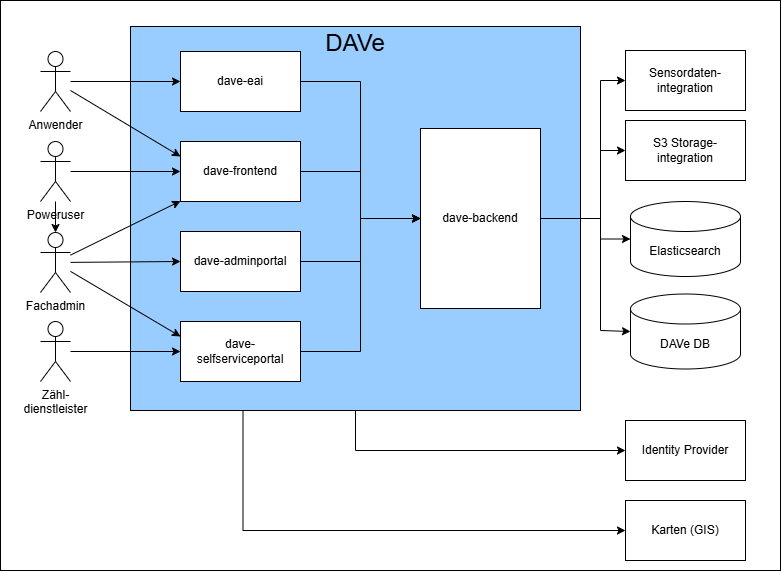
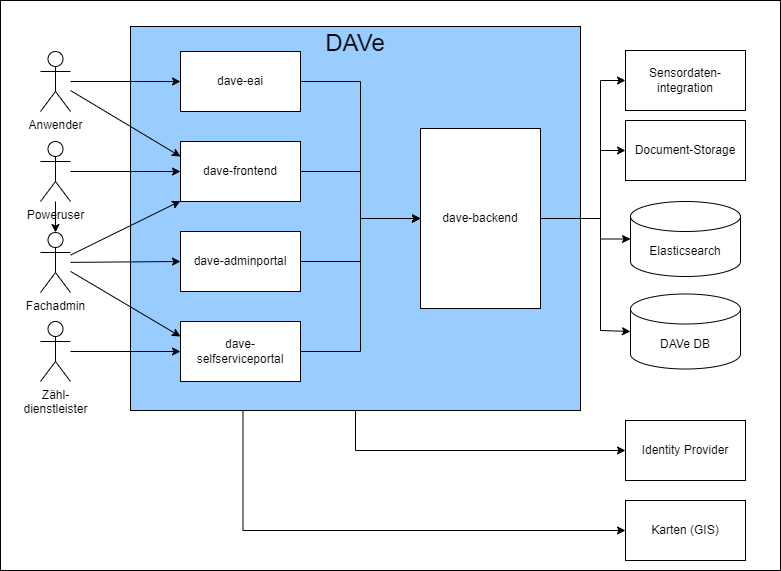
document-storage docu added

diff --git a/docs/src/de/SysSpec-arc42.md b/docs/src/de/SysSpec-arc42.md
@@ -19,7 +19,7 @@
          - [Ausgabe aller Zählstellen mit Koordinaten als CSV-Datei](#ausgabe-aller-zählstellen-mit-koordinaten-als-csv-datei)
          - [Ausgabe der Spitzenstunde einer bestimmten Zählung als CSV-Datei](#ausgabe-der-spitzenstunde-einer-bestimmten-zählung-als-csv-datei)
          - [Daten aller Zählstellen und Zählungen des angegebenen Monats werden im JSON-Format zurückgegeben](#daten-aller-zählstellen-und-zählungen-des-angegebenen-monats-werden-im-json-format-zurückgegeben)
-      - [S3-Storageintegration](#s3-storageintegration)
+      - [Document-Storage](#document-storage)
       - [Sensordatenintegration](#sensordatenintegration)
       - [Identity Provider](#identity-provider)
 - [Laufzeitsicht](#laufzeitsicht)
@@ -148,13 +148,14 @@ Die Anwendung ist auf Basis der LHM-Referenzarchitektur für Webanwendungen erst
 | Vue          | 3       |
 
 ### Anwendung DAVe
-| Komponente        | Repo                             | Beschreibung                                                                                                                                                                                                                                         |
-|:------------------|:---------------------------------|:-----------------------------------------------------------------------------------------------------------------------------------------------------------------------------------------------------------------------------------------------------|
-| Datenportal       | [dave-frontend](https://github.com/it-at-m/dave-frontend)             | Das Datenportal bietet einen lesenden Zugriff auf die Zählungen und ermöglicht mit Hilfe verschiedener Diagramme eine umfangreich Datenanalyse.                                                                                                      |
-| Adminportal       | [dave-adminportal](https://github.com/it-at-m/dave-admin-portal)          | Das Adminportal ist den Administratoren der Anwendung vorbehalten. Hier ist der komplette Workflow um eine Zählstelle, oder eine Zählung anzulegen abgebildet. Auch die Kommunikation mit dem Zähldienstleister wird über dieses Portal abgewickelt. |
-| Selfserviceportal | [dave-selfserviceportal](https://github.com/it-at-m/dave-selfservice-portal)    | Das Selfservice-Portal dient zur Kommunikation zwischen LHM und Zähldienstleister. Über das Portal hat der Dienstleister die Möglichkeit, seine Zählungsaufträge online aufzurufen und diesen Aufträgen Zähldaten zuzuordnen (hochzuladen).          |
-| Backend           | [dave-backend](https://github.com/it-at-m/dave-backend)              | Beinhaltet die Business Logik für Frontend, Adminportal, Selfserviceportal und EAI, sowie die Anbindung an die Datenbanken. Die Api kann über die eingebaute Swagger-UI eingesehen werden.                                                           |
-| DAVe-EAI          | [dave-eai](https://github.com/it-at-m/dave-eai)                  | Die EAI dient dazu Daten zu den Zählstellen und Zählungen als CSV oder JSON-File zu exportieren.                                                                                                                                                     |
+| Komponente        | Repo                                                                         | Beschreibung                                                                                                                                                                                                                                         |
+|:------------------|:-----------------------------------------------------------------------------|:-----------------------------------------------------------------------------------------------------------------------------------------------------------------------------------------------------------------------------------------------------|
+| Datenportal       | [dave-frontend](https://github.com/it-at-m/dave-frontend)                    | Das Datenportal bietet einen lesenden Zugriff auf die Zählungen und ermöglicht mit Hilfe verschiedener Diagramme eine umfangreich Datenanalyse.                                                                                                      |
+| Adminportal       | [dave-adminportal](https://github.com/it-at-m/dave-admin-portal)             | Das Adminportal ist den Administratoren der Anwendung vorbehalten. Hier ist der komplette Workflow um eine Zählstelle, oder eine Zählung anzulegen abgebildet. Auch die Kommunikation mit dem Zähldienstleister wird über dieses Portal abgewickelt. |
+| Selfserviceportal | [dave-selfserviceportal](https://github.com/it-at-m/dave-selfservice-portal) | Das Selfservice-Portal dient zur Kommunikation zwischen LHM und Zähldienstleister. Über das Portal hat der Dienstleister die Möglichkeit, seine Zählungsaufträge online aufzurufen und diesen Aufträgen Zähldaten zuzuordnen (hochzuladen).          |
+| Backend           | [dave-backend](https://github.com/it-at-m/dave-backend)                      | Beinhaltet die Business Logik für Frontend, Adminportal, Selfserviceportal und EAI, sowie die Anbindung an die Datenbanken. Die Api kann über die eingebaute Swagger-UI eingesehen werden.                                                           |
+| DAVe-EAI          | [dave-eai](https://github.com/it-at-m/dave-eai)                              | Die EAI dient dazu Daten zu den Zählstellen und Zählungen als CSV oder JSON-File zu exportieren.                                                                                                                                                     |
+| Document-Storage  | [dave-document-storage](https://github.com/it-at-m/dave-document-storage)    | Die Komponente dient dazu, Lagepläne von Messstellen aus einem S3-Speicher zu laden. |
 
 In jedem Frontend ist ein eigenes API Gateway enthalten, welches zur Autorisierung und Authentifizierung der
 Anwender*innen und zur Bereitstellung der grafischen Oberfläche der Anwendung benötigt wird.
@@ -193,10 +194,9 @@ Routenendpunkt: ```GET /lade-auswertung-visum```
 
 Routenziel: ```dave-backend GET /lade-auswertung-visum```
 
-### S3-Storageintegration
+### Document-Storage
 
 Die Schnittstellendefinition ist [hier](https://github.com/it-at-m/dave-backend/blob/main-ng/src/main/resources/api/document-storage.json) nachzulesen. 
-
 
 
 ### Sensordatenintegration

diff --git a/docs/src/de/index.md b/docs/src/de/index.md
@@ -10,6 +10,7 @@ DAVe besteht aus folgenden Diensten:
      * [Selbstbedienungsportal](https://github.com/it-at-m/dave-selfservice-portal), in dem die Betreiber der Zählstellen ihre Datensätze manuell hochladen können
   * [Frontend](https://github.com/it-at-m/dave-frontend) zur Anzeige der Zählstellen auf der Karte
   * [EAI-Berichte](https://github.com/it-at-m/dave-eai) (optional) Unternehmensanwendungsintegration für andere Spezialverfahren (z. B. Ausgabe der Koordinaten aller Zählstellen in einer CSV-Datei, Empfang der Daten aller Zählungen für einen bestimmten Monat im JSON-Format).
+  * [Document-Storage](https://github.com/it-at-m/dave-document-storage) Integration für einen S3-Storage für Lagepläne von Messstellen
 
 Weitere Details in der [Systemspezifikation](SysSpec-arc42.md).
 